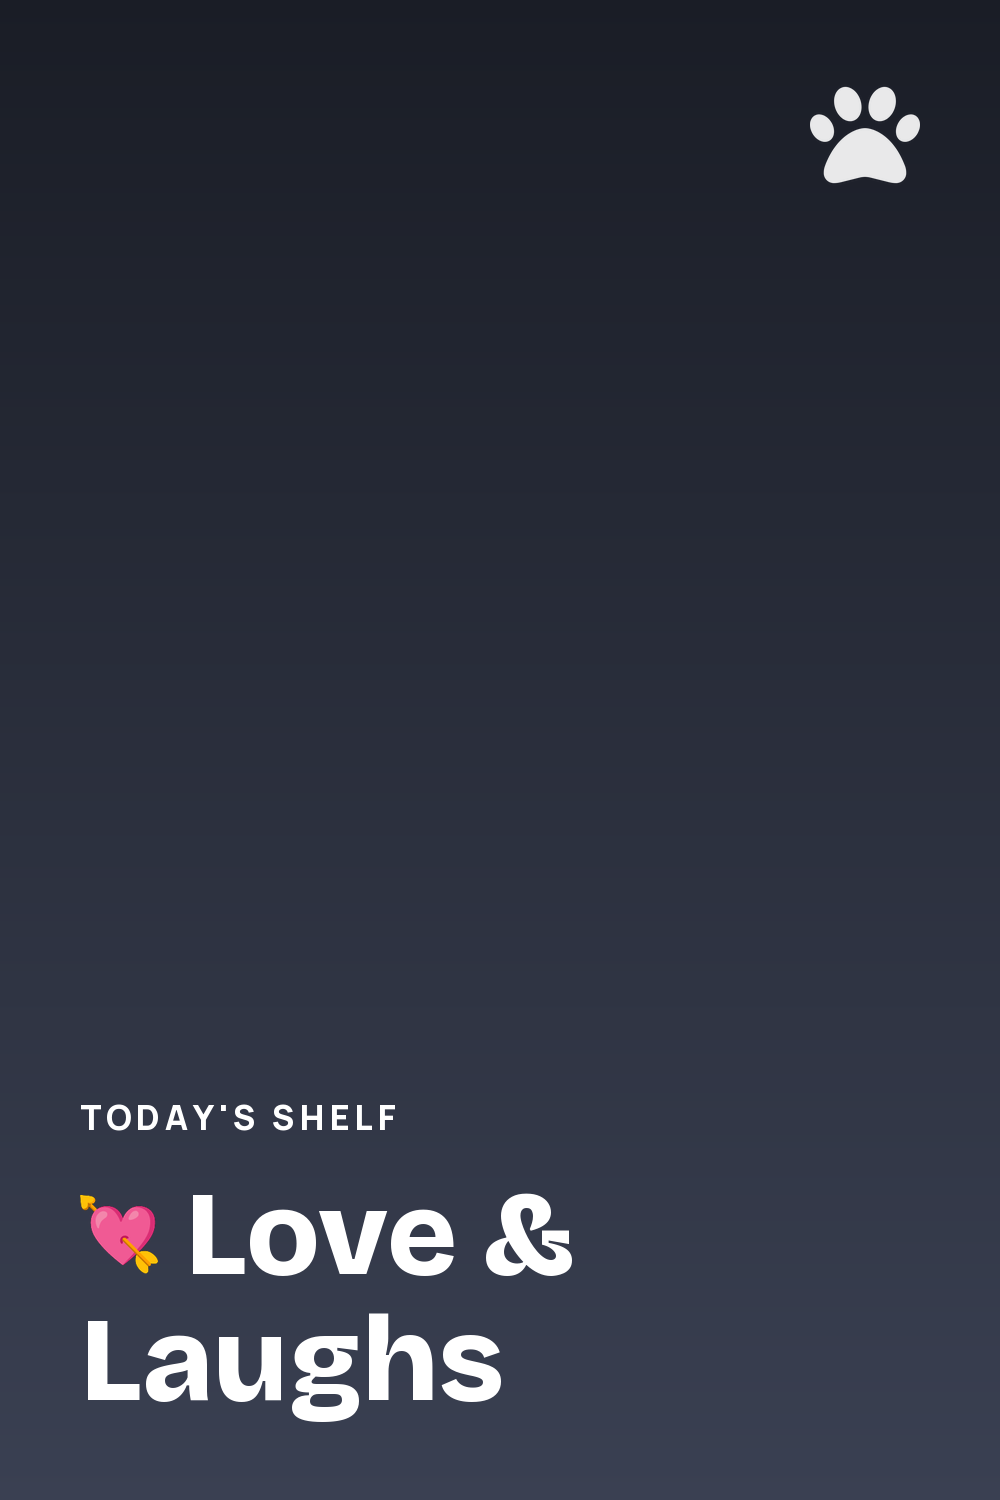
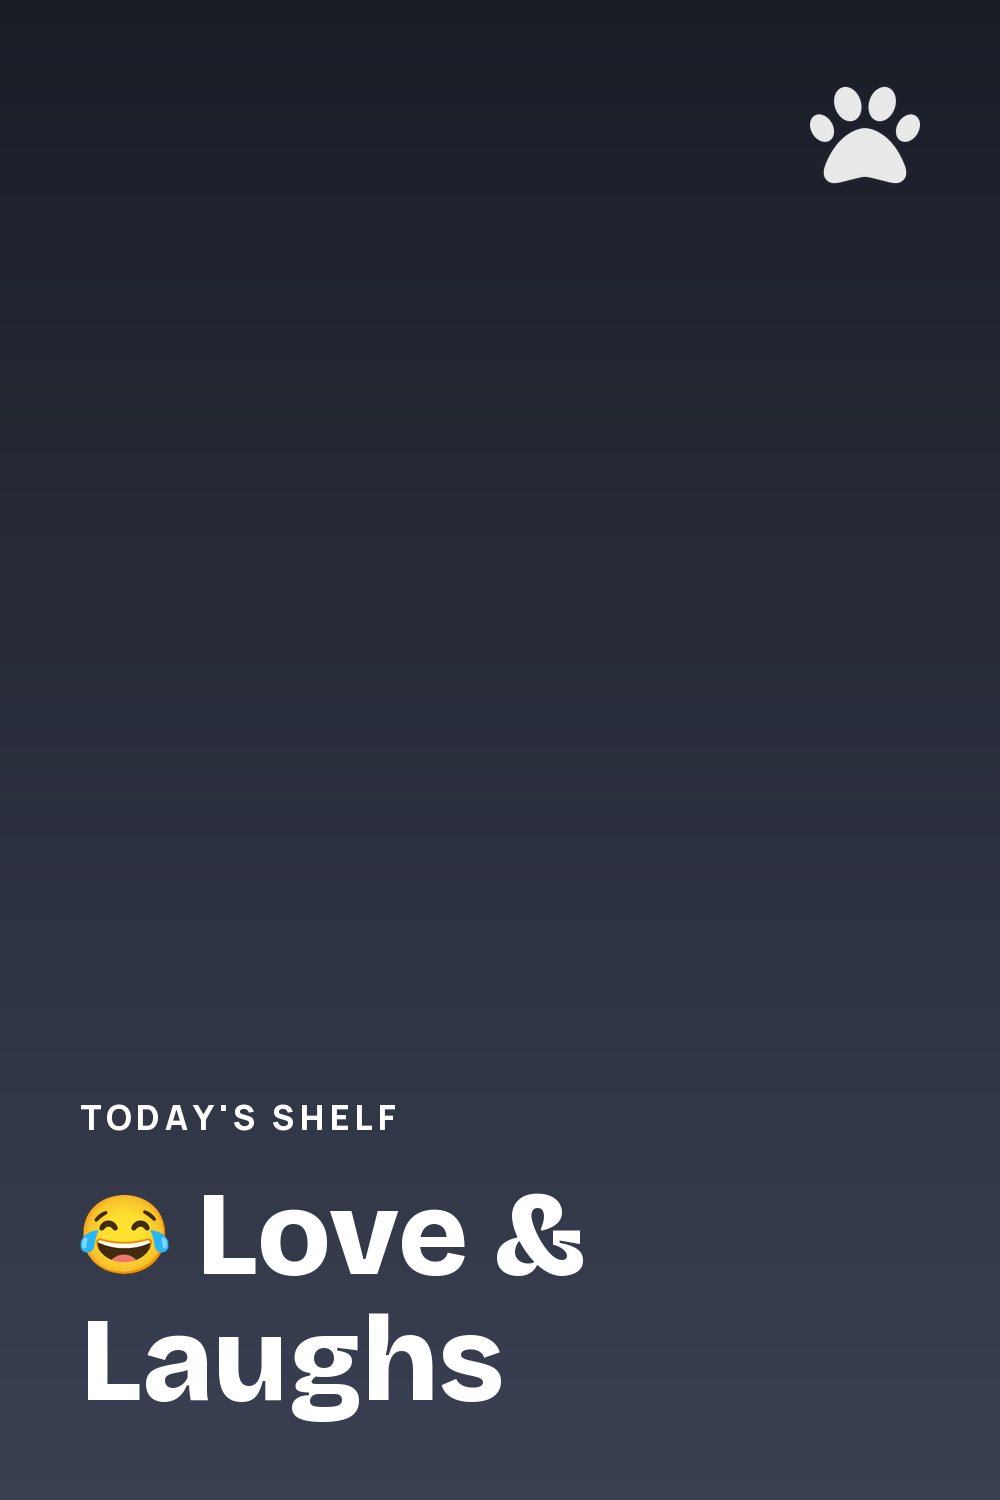
fix(winswatch): derive theme/seasonal cards from gen_home (single source of truth)
gen_cards.CARDS no longer hardcodes emoji/title for the 22 theme+extra slugs;
they're now derived from gen_home.THEMES/EXTRAS at import time
(_theme_and_extra_cards()), so a change to either dict (e.g. Task 1's
Love & Laughs emoji fix, 💘 -> 😂) can't drift out of sync with the cards.
gen_cards keeps its own kind bucketing (seasonal vs. theme) since that split
doesn't exist in gen_home — only the 4 fixed-date cards (halloween,
christmas, valentines, awards-season) are "seasonal"; Date Night and Sunday
Slow Burn stay "theme" despite living in gen_home.EXTRAS too. Only the rows
Kometa doesn't own (personal/trending/new/popular/leaving) are still defined
directly in CARDS.

Extends test_every_gen_home_card_slug_exists to assert emoji/title equality,
not just slug presence. Regenerated love-and-laughs.png with the corrected
emoji.

Changed region(s): [[0.062, 0.7973, 0.589, 0.8587]]

diff --git a/scripts/winswatch/gen_cards.py b/scripts/winswatch/gen_cards.py
@@ -3,6 +3,7 @@ leaving, theme, seasonal), and (Step 5) upload the ones we own to the matching P
 import json, subprocess, sys
 from pathlib import Path
 from PIL import Image, ImageDraw, ImageFont
+import gen_home
 
 W, H = 1000, 1500
 HERE = Path(__file__).resolve().parents[2] / "kometa/overlays/winswatch"
@@ -10,8 +11,25 @@ TITLE_FONT = HERE / "fonts/BricolageGrotesque[opsz,wdth,wght].ttf"
 EYEBROW_FONT = HERE / "fonts/Manrope[wght].ttf"
 PAW = HERE / "src/paw_512.png"
 
+# Card slugs whose kind is "seasonal" rather than "theme" (fixed-date rows, distinct tint per season).
+# Everything else in gen_home.THEMES/EXTRAS — including the weekly Date Night / Sunday Slow Burn extras
+# — is a "theme" card ("today's shelf" eyebrow).
+_SEASONAL_SLUGS = {"halloween", "christmas", "valentines", "awards-season"}
+
+
+def _theme_and_extra_cards() -> dict:
+    """slug -> (kind, emoji, title) for every gen_home theme/extra, derived from gen_home.THEMES /
+    gen_home.EXTRAS so the two never drift apart (single source of truth for emoji + title)."""
+    out = {}
+    for name, t in {**gen_home.THEMES, **gen_home.EXTRAS}.items():
+        kind = "seasonal" if t["card"] in _SEASONAL_SLUGS else "theme"
+        out[t["card"]] = (kind, t["emoji"], name)
+    return out
+
+
 # slug -> (kind, emoji, title). Every Home row, incl. the generic personal "byw" (Because you watched)
-# card, every theme slug and every seasonal card.
+# card. Theme/seasonal entries come from gen_home (see _theme_and_extra_cards); only the rows Kometa
+# doesn't own (personal, trending, new, popular, leaving) are defined here.
 CARDS = {
     # personal (Shortlist, per person)
     "for-you-movies": ("personal", "✨", "Movies for you"),
@@ -29,31 +47,8 @@ CARDS = {
     # leaving (Maintainerr)
     "leaving-movies": ("leaving", "⏳", "Movies Leaving Wins Watch"),
     "leaving-shows": ("leaving", "⏳", "Shows Leaving Wins Watch"),
-    # theme (Kometa smart collections, "today's shelf")
-    "adrenaline-rush": ("theme", "\U0001F4A5", "Adrenaline Rush"),
-    "crime-files": ("theme", "\U0001F575", "Crime Files"),
-    "sci-fi-odyssey": ("theme", "\U0001F680", "Sci-Fi Odyssey"),
-    "hidden-gems": ("theme", "\U0001F48E", "Hidden Gems"),
-    "love-and-laughs": ("theme", "\U0001F498", "Love & Laughs"),
-    "mind-benders": ("theme", "\U0001F300", "Mind Benders"),
-    "based-on-a-true-story": ("theme", "\U0001F4F0", "Based on a True Story"),
-    "directors-spotlight": ("theme", "\U0001F3AC", "Director's Spotlight"),
-    "fresh-picks": ("theme", "\U0001F37F", "Fresh Picks"),
-    "raunchy-comedy": ("theme", "\U0001F37A", "Raunchy Comedy"),
-    "worlds-beyond": ("theme", "\U0001FA90", "Worlds Beyond"),
-    "peak-tv": ("theme", "\U0001F3D4", "Peak TV"),
-    "crime-beat": ("theme", "\U0001F694", "Crime Beat"),
-    "comfort-binge": ("theme", "\U0001F6CB", "Comfort Binge"),
-    "just-dropped": ("theme", "\U0001F4FA", "Just Dropped"),
-    "edge-of-your-seat": ("theme", "\U0001F3A2", "Edge of Your Seat"),
-    "date-night": ("theme", "\U0001F377", "Date Night"),
-    "sunday-slow-burn": ("theme", "☕", "Sunday Slow Burn"),
-    # seasonal
-    "halloween": ("seasonal", "\U0001F383", "Halloween"),
-    "christmas": ("seasonal", "\U0001F384", "Christmas Movies"),
-    "valentines": ("seasonal", "\U0001F498", "Valentine's Picks"),
-    "awards-season": ("seasonal", "\U0001F3C6", "Awards Season"),
 }
+CARDS.update(_theme_and_extra_cards())
 
 EYEBROW = {
     "personal": "JUST FOR YOU",

diff --git a/scripts/winswatch/tests/test_gen_cards.py b/scripts/winswatch/tests/test_gen_cards.py
@@ -36,10 +36,16 @@ def test_non_personal_has_no_ring():
 
 
 def test_every_gen_home_card_slug_exists():
-    """Parity with Task 1: every theme/extra gen_home.py knows about must have a card."""
-    slugs = {t["card"] for t in gen_home.THEMES.values()} | {t["card"] for t in gen_home.EXTRAS.values()}
+    """Parity with Task 1: every theme/extra gen_home.py knows about must have a card, with the exact
+    same emoji and title — gen_home.THEMES/EXTRAS is the single source of truth for those two fields."""
+    by_name = {**gen_home.THEMES, **gen_home.EXTRAS}
+    slugs = {t["card"] for t in by_name.values()}
     missing = slugs - set(gen_cards.CARDS)
     assert not missing, f"gen_cards.CARDS is missing slugs gen_home references: {missing}"
+    for name, t in by_name.items():
+        _kind, emoji, title = gen_cards.CARDS[t["card"]]
+        assert emoji == t["emoji"], f"{t['card']}: emoji {emoji!r} != gen_home's {t['emoji']!r}"
+        assert title == name, f"{t['card']}: title {title!r} != gen_home's {name!r}"
 
 
 # --- Step 5: upload_cards ---
